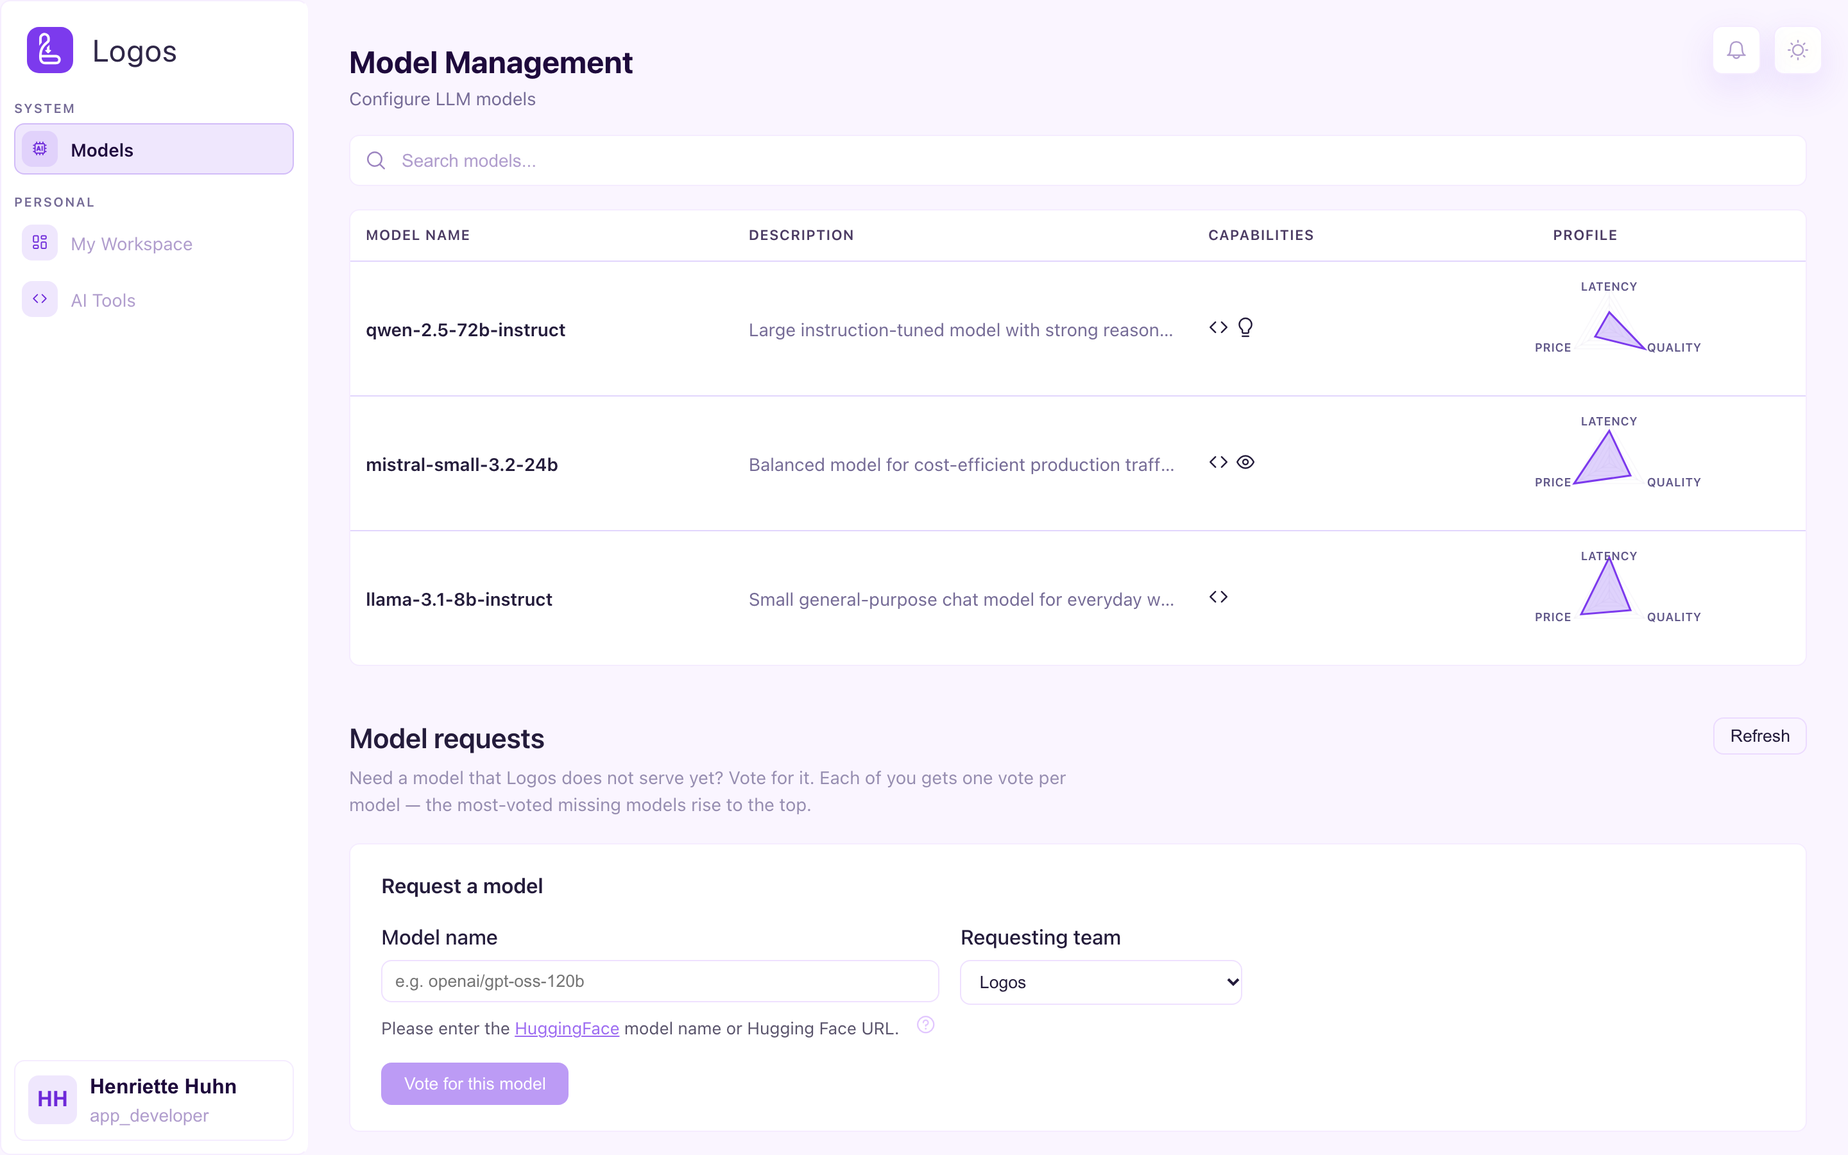
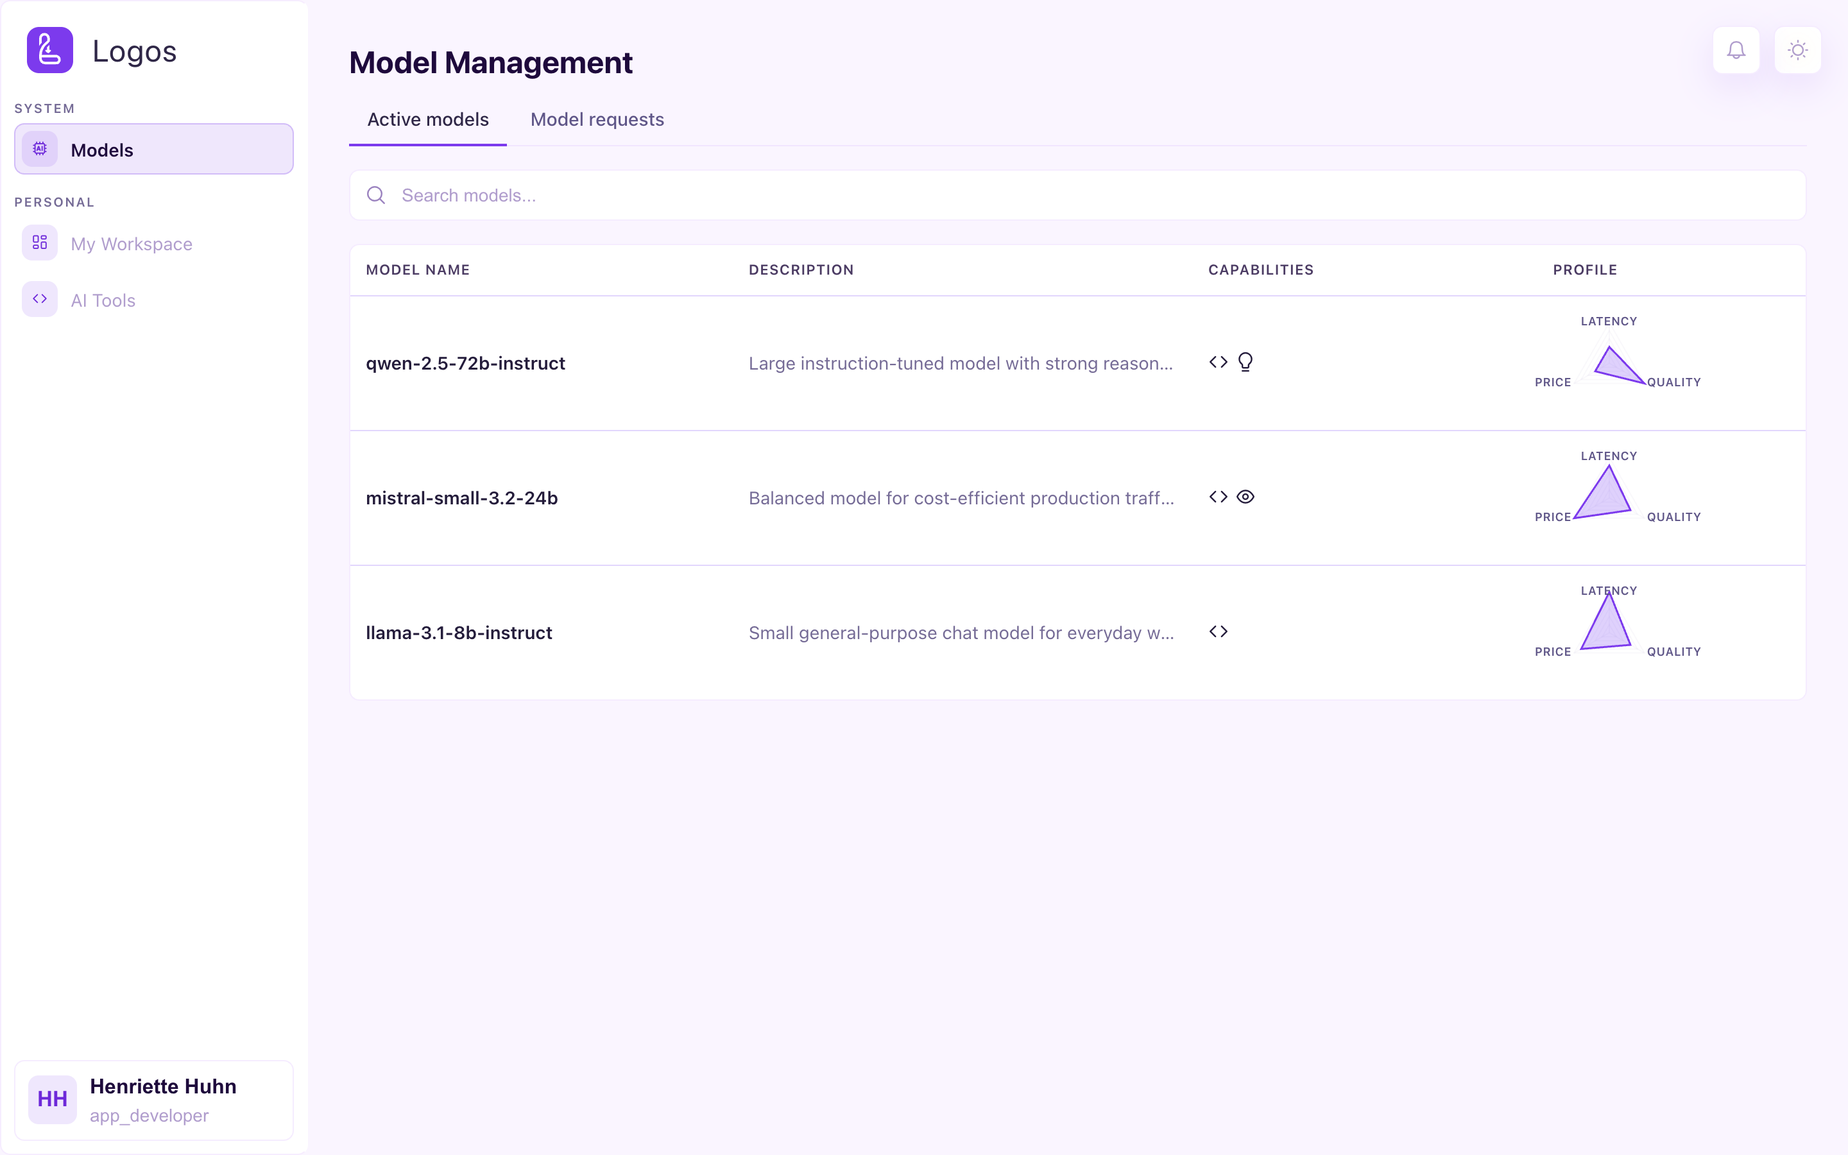
Keep model agreements on one revision and address model request review

diff --git a/logos-ui/src/app/shared/components/notification-bell/notification-bell.spec.ts b/logos-ui/src/app/shared/components/notification-bell/notification-bell.spec.ts
@@ -95,39 +95,33 @@ describe('NotificationBell', () => {
     payload,
   });
 
-  it('opens the model page on Hugging Face when a gated-model notification is clicked', async () => {
-    const open = vi.spyOn(window, 'open').mockReturnValue(null);
-    try {
-      service.list.mockResolvedValue({
-        content: [gated({ model: 'meta-llama/llama-3.1-8b' })],
-        total_elements: 1, total_pages: 1, number: 0, last: true,
-      });
-      await bell.toggle();
-      fixture.detectChanges();
-      fixture.nativeElement.querySelector('.item__title').click();
-      expect(open).toHaveBeenCalledWith('https://huggingface.co/meta-llama/llama-3.1-8b', '_blank', 'noopener,noreferrer');
-      expect(bell.items()[0].read).toBe(true);
-      expect(bell.open()).toBe(true);
-    } finally {
-      open.mockRestore();
-    }
+  it('links a gated-model notification to the model in a new tab', async () => {
+    service.list.mockResolvedValue({
+      content: [gated({ model: 'meta-llama/llama-3.1-8b' })],
+      total_elements: 1, total_pages: 1, number: 0, last: true,
+    });
+    await bell.toggle();
+    fixture.detectChanges();
+    const title: HTMLAnchorElement = fixture.nativeElement.querySelector('a.item__title');
+    expect(title.href).toBe('https://huggingface.co/meta-llama/llama-3.1-8b');
+    expect(title.target).toBe('_blank');
+    expect(title.relList.contains('noopener')).toBe(true);
+    title.addEventListener('click', (event) => event.preventDefault(), { once: true });
+    title.click();
+    expect(bell.items()[0].read).toBe(true);
+    expect(bell.open()).toBe(true);
   });
 
-  it('marks a gated-model notification read without opening a page for a malformed payload', async () => {
-    const open = vi.spyOn(window, 'open').mockReturnValue(null);
-    try {
-      service.list.mockResolvedValue({
-        content: [gated({ model: 'https://huggingface.co/evil/x' })],
-        total_elements: 1, total_pages: 1, number: 0, last: true,
-      });
-      await bell.toggle();
-      fixture.detectChanges();
-      fixture.nativeElement.querySelector('.item__title').click();
-      expect(open).not.toHaveBeenCalled();
-      expect(bell.items()[0].read).toBe(true);
-    } finally {
-      open.mockRestore();
-    }
+  it('keeps click-to-read for a notification without a valid destination', async () => {
+    service.list.mockResolvedValue({
+      content: [gated({ model: 'https://huggingface.co/evil/x' })],
+      total_elements: 1, total_pages: 1, number: 0, last: true,
+    });
+    await bell.toggle();
+    fixture.detectChanges();
+    expect(fixture.nativeElement.querySelector('a.item__title')).toBeNull();
+    fixture.nativeElement.querySelector('button.item__title').click();
+    expect(bell.items()[0].read).toBe(true);
   });
 
   for (const read of [false, true]) {

diff --git a/logos-ui/src/app/core/services/notification-target.spec.ts b/logos-ui/src/app/core/services/notification-target.spec.ts
@@ -1,4 +1,4 @@
-import { notificationBody, notificationModelUrl, notificationTarget } from './notification-target';
+import { notificationBody, notificationExternalUrl, notificationTarget } from './notification-target';
 import { AppNotification } from './notification.service';
 
 describe('Benchmark notification destinations', () => {
@@ -17,7 +17,7 @@ describe('Benchmark notification destinations', () => {
 describe('Gated model notification destinations', () => {
   const notification = (payload: unknown) => ({ type: 'gated_model_requested', payload } as AppNotification);
   it('points at the model page on Hugging Face', () => {
-    expect(notificationModelUrl(notification({ model: 'meta-llama/llama-3.1-8b' }))).toBe(
+    expect(notificationExternalUrl(notification({ model: 'meta-llama/llama-3.1-8b' }))).toBe(
       'https://huggingface.co/meta-llama/llama-3.1-8b',
     );
   });
@@ -27,10 +27,10 @@ describe('Gated model notification destinations', () => {
     { model: 'https://huggingface.co/x/y' }, { model: 'x@y/z' }, { model: 'x/y?redirect=1' },
     { model: 'x/y\nHost: evil.example' },
   ])('does not open a URL for a malformed model name: %j', payload => {
-    expect(notificationModelUrl(notification(payload))).toBeNull();
+    expect(notificationExternalUrl(notification(payload))).toBeNull();
   });
   it('ignores other notification types', () => {
-    expect(notificationModelUrl({ type: 'batch_job_finished', payload: { model: 'x/y' } } as AppNotification)).toBeNull();
+    expect(notificationExternalUrl({ type: 'batch_job_finished', payload: { model: 'x/y' } } as AppNotification)).toBeNull();
   });
 });
 

diff --git a/logos-ui/src/app/shared/components/notification-bell/notification-bell.ts b/logos-ui/src/app/shared/components/notification-bell/notification-bell.ts
@@ -17,7 +17,7 @@ import {
 } from '../../../core/services/notification.service';
 import { formatRelativeTime } from '../../utils/date';
 import { RouterLink } from '@angular/router';
-import { notificationBody, notificationModelUrl, notificationTarget } from '../../../core/services/notification-target';
+import { notificationBody, notificationExternalUrl, notificationTarget } from '../../../core/services/notification-target';
 
 const PAGE_SIZE = 15;
 /** Start loading the next page this close (px) to the end of the list. */
@@ -62,6 +62,7 @@ export class NotificationBell implements OnInit, OnDestroy {
   readonly meta = notificationMeta;
   readonly age = formatRelativeTime;
   readonly target = notificationTarget;
+  readonly externalUrl = notificationExternalUrl;
   readonly body = notificationBody;
 
   constructor() {
@@ -151,18 +152,6 @@ export class NotificationBell implements OnInit, OnDestroy {
   followBenchmark(item: AppNotification): void {
     void this.markRead(item);
     this.open.set(false);
-  }
-
-  /**
-   * A title click reads the item, and for a gated-model notification takes
-   * the caller straight to the model's Hugging Face page — the same target
-   * as the Model requests page' license dialog. The panel stays open: the
-   * tab opens next to it, the page underneath is unchanged.
-   */
-  clickTitle(item: AppNotification): void {
-    void this.markRead(item);
-    const url = notificationModelUrl(item);
-    if (url) window.open(url, '_blank', 'noopener,noreferrer');
   }
 
   async markRead(item: AppNotification): Promise<void> {

diff --git a/logos-ui/src/app/shared/components/notification-bell/notification-bell.html b/logos-ui/src/app/shared/components/notification-bell/notification-bell.html
@@ -57,8 +57,13 @@
                   <i [class]="'pi ' + meta(item.type).icon"></i>
                 </span>
                 <div class="item__text">
-                  <button type="button" class="item__title" (click)="clickTitle(item)"
-                    [attr.aria-label]="(item.read ? '' : 'Unread: ') + item.title">{{ item.title }}</button>
+                  @if (externalUrl(item); as url) {
+                    <a class="item__title" [href]="url" target="_blank" rel="noopener noreferrer" (click)="markRead(item)"
+                      [attr.aria-label]="(item.read ? '' : 'Unread: ') + item.title">{{ item.title }}</a>
+                  } @else {
+                    <button type="button" class="item__title" (click)="markRead(item)"
+                      [attr.aria-label]="(item.read ? '' : 'Unread: ') + item.title">{{ item.title }}</button>
+                  }
                   @if (body(item); as text) {
                     <p class="item__body">{{ text }}</p>
                   }

diff --git a/logos-ui/src/app/core/services/notification-target.ts b/logos-ui/src/app/core/services/notification-target.ts
@@ -28,7 +28,7 @@ function modelName(value: unknown): string | null {
  * same target as the Model requests page' license dialog. Built from the
  * validated payload value only, never from a payload-supplied URL.
  */
-export function notificationModelUrl(item: AppNotification): string | null {
+export function notificationExternalUrl(item: AppNotification): string | null {
   if (item.type !== 'gated_model_requested' || !item.payload || typeof item.payload !== 'object') return null;
   const model = modelName((item.payload as Record<string, unknown>)['model']);
   return model === null ? null : `https://huggingface.co/${model}`;

diff --git a/logos-orchestrator/src/logos/hf_license.py b/logos-orchestrator/src/logos/hf_license.py
@@ -124,53 +124,24 @@ async def _fetch(
                 elif not isinstance(license_id, str):
                     license_id = None
 
-                # Both files come from the repository's tree, scanned in the
-                # same pass. The license pins the default branch, so once it
-                # is found the other ref need not be asked — the policy, if
-                # any, lives on that branch too.
-                license_file: str | None = None
-                license_ref: str | None = None
-                policy_file: str | None = None
-                policy_ref: str | None = None
+                license_file = license_text = policy_file = use_policy_text = None
                 for ref in _DEFAULT_REFS:
                     tree = await get(f"{constants.ENDPOINT}/api/models/{hf_repo_id}/tree/{ref}")
                     if tree.status_code == 404:
-                        continue  # not this repository's default branch
+                        continue
                     hf_raise_for_status(tree)
-                    entries = tree.json()
-                    if license_file is None:
-                        candidates = [
-                            entry["path"]
-                            for entry in entries
-                            if entry.get("type") == "file"
-                            and _LICENSE_FILE_NAME.match(entry["path"].rsplit("/", 1)[-1])
-                        ]
-                        if candidates:
-                            license_file = min(candidates, key=_license_file_rank)
-                            license_ref = ref
-                    if policy_file is None:
-                        candidates = [
-                            entry["path"]
-                            for entry in entries
-                            if entry.get("type") == "file"
-                            and _USE_POLICY_FILE_NAME.match(entry["path"].rsplit("/", 1)[-1])
-                        ]
-                        if candidates:
-                            policy_file = min(candidates)
-                            policy_ref = ref
-                    if license_file is not None:
-                        break
-
-                license_text: str | None = None
-                if license_file is not None and license_ref is not None:
-                    license_text = await read_repo_file(
-                        f"{constants.ENDPOINT}/{hf_repo_id}/resolve/{license_ref}/{license_file}", "License file"
-                    )
-                use_policy_text: str | None = None
-                if policy_file is not None and policy_ref is not None:
-                    use_policy_text = await read_repo_file(
-                        f"{constants.ENDPOINT}/{hf_repo_id}/resolve/{policy_ref}/{policy_file}", "Use policy file"
-                    )
+                    paths = [entry["path"] for entry in tree.json() if entry.get("type") == "file"]
+                    licenses = [path for path in paths if _LICENSE_FILE_NAME.match(path.rsplit("/", 1)[-1])]
+                    policies = [path for path in paths if _USE_POLICY_FILE_NAME.match(path.rsplit("/", 1)[-1])]
+                    base_url = f"{constants.ENDPOINT}/{hf_repo_id}/resolve/{ref}"
+                    if licenses:
+                        license_file = min(licenses, key=_license_file_rank)
+                        license_text = await read_repo_file(f"{base_url}/{license_file}", "License file")
+                    if policies:
+                        policy_file = min(policies)
+                        use_policy_text = await read_repo_file(f"{base_url}/{policy_file}", "Use policy file")
+                    # A successful tree selects the revision for both documents, even when either is absent.
+                    break
         return license_id, license_file, license_text, policy_file, use_policy_text, None
     except HFValidationError:
         return (None, None, None, None, None, "Not a valid Hugging Face repository id.")

diff --git a/logos-webservice/src/main/java/de/tum/cit/aet/logos/logoswebservice/common/RestTemplateConfig.java b/logos-webservice/src/main/java/de/tum/cit/aet/logos/logoswebservice/common/RestTemplateConfig.java
@@ -18,9 +18,13 @@ public class RestTemplateConfig {
     @Primary
     @Bean
     public RestTemplate restTemplate() {
+        return withReadTimeout(5_000);
+    }
+
+    private static RestTemplate withReadTimeout(int readTimeoutMs) {
         SimpleClientHttpRequestFactory factory = new SimpleClientHttpRequestFactory();
         factory.setConnectTimeout(3_000);
-        factory.setReadTimeout(5_000);
+        factory.setReadTimeout(readTimeoutMs);
         return new RestTemplate(factory);
     }
 
@@ -34,10 +38,7 @@ public class RestTemplateConfig {
      */
     @Bean
     public RestTemplate workerAdminRestTemplate() {
-        SimpleClientHttpRequestFactory factory = new SimpleClientHttpRequestFactory();
-        factory.setConnectTimeout(3_000);
-        factory.setReadTimeout(130_000);
-        return new RestTemplate(factory);
+        return withReadTimeout(130_000);
     }
 
     /**
@@ -49,10 +50,7 @@ public class RestTemplateConfig {
      */
     @Bean
     public RestTemplate hfReachabilityRestTemplate() {
-        SimpleClientHttpRequestFactory factory = new SimpleClientHttpRequestFactory();
-        factory.setConnectTimeout(3_000);
-        factory.setReadTimeout(20_000);
-        return new RestTemplate(factory);
+        return withReadTimeout(20_000);
     }
 
     /**
@@ -65,10 +63,7 @@ public class RestTemplateConfig {
      */
     @Bean
     public RestTemplate hfLicenseRestTemplate() {
-        SimpleClientHttpRequestFactory factory = new SimpleClientHttpRequestFactory();
-        factory.setConnectTimeout(3_000);
-        factory.setReadTimeout(65_000);
-        return new RestTemplate(factory);
+        return withReadTimeout(65_000);
     }
 
     /**
@@ -78,10 +73,7 @@ public class RestTemplateConfig {
      */
     @Bean
     public RestTemplate calibrationLogRestTemplate() {
-        SimpleClientHttpRequestFactory factory = new SimpleClientHttpRequestFactory();
-        factory.setConnectTimeout(3_000);
-        factory.setReadTimeout(30_000);
-        return new RestTemplate(factory);
+        return withReadTimeout(30_000);
     }
 
     /**

diff --git a/logos-webservice/src/test/java/de/tum/cit/aet/logos/logoswebservice/configuration/ModelRequestControllerTest.java b/logos-webservice/src/test/java/de/tum/cit/aet/logos/logoswebservice/configuration/ModelRequestControllerTest.java
@@ -50,7 +50,11 @@ import de.tum.cit.aet.logos.logoswebservice.orchestrator.OrchestratorHfReachabil
 })
 @Sql(scripts = {"/sql/seed-identity.sql", "/sql/seed-configuration.sql"},
      executionPhase = Sql.ExecutionPhase.BEFORE_TEST_METHOD)
-@Sql(scripts = {"/sql/cleanup-requested-models.sql", "/sql/cleanup-configuration.sql", "/sql/cleanup-identity.sql"},
+@Sql(statements = {
+    "DELETE FROM notifications WHERE type = 'gated_model_requested' AND payload->>'model' IN (SELECT name FROM requested_models)",
+    "DELETE FROM requested_models"
+}, executionPhase = Sql.ExecutionPhase.AFTER_TEST_METHOD)
+@Sql(scripts = {"/sql/cleanup-configuration.sql", "/sql/cleanup-identity.sql"},
      executionPhase = Sql.ExecutionPhase.AFTER_TEST_METHOD)
 class ModelRequestControllerTest {
 
@@ -214,7 +218,9 @@ class ModelRequestControllerTest {
            .andExpect(status().isOk())
            .andExpect(jsonPath("$.is_gated").value(false));
 
-        assertThat(jdbc.queryForObject("SELECT COUNT(*) FROM notifications", Integer.class)).isZero();
+        assertThat(jdbc.queryForObject(
+            "SELECT COUNT(*) FROM notifications WHERE type = 'gated_model_requested' AND payload->>'model' = 'openai/gpt-5'",
+            Integer.class)).isZero();
     }
 
     @Test

diff --git a/logos-orchestrator/tests/unit/test_hf_license.py b/logos-orchestrator/tests/unit/test_hf_license.py
@@ -265,7 +265,15 @@ async def test_license_id_wins_when_several_files_match(hub):
 
 
 async def test_no_license_file_keeps_the_card_license(hub):
-    _hub_with(hub, {"cardData": {"license": "mit"}}, {"main": [{"type": "file", "path": "model.safetensors"}]}, {})
+    _hub_with(
+        hub,
+        {"cardData": {"license": "mit"}},
+        {
+            "main": [{"type": "file", "path": "USE_POLICY.md"}],
+            "master": [{"type": "file", "path": "LICENSE"}],
+        },
+        {"USE_POLICY.md": "Current policy", "LICENSE": "Obsolete GPL agreement"},
+    )
 
     result = await hf_license.fetch_hf_license("org/model")
 
@@ -273,6 +281,8 @@ async def test_no_license_file_keeps_the_card_license(hub):
     assert result.license_id == "mit"
     assert result.license_file is None
     assert result.license_text is None
+    assert result.use_policy_text == "Current policy"
+    assert all(not request.url.path.endswith("/tree/master") for request in hub.requests)
 
 
 async def test_no_license_information_is_no_error(hub):

diff --git a/docs/roles/logos-admin.md b/docs/roles/logos-admin.md
@@ -158,7 +158,7 @@ first lane has started.
 
 ## Models
 
-This page shows the model catalogue of the deployment. It shows tags, aliases,
+The **Active models** tab shows the model catalogue of the deployment. It shows tags, aliases,
 capabilities and scheduling weights for each model. It also shows the Likert
 **profile ratings** (latency / quality / price) as a spider chart. Click a
 model to open its **Model Details** view. This view shows the request history,
@@ -174,6 +174,27 @@ Point to a status for the worker and date. Select it to open **Performance**.
 The preview depends on current worker availability. It does not reserve a worker.
 
 ![Models page](/img/roles/logos-admin-models.png)
+
+### Model requests
+
+Select **Model requests** to see which models users request and how many votes each model has.
+To vote for a model, select your team and enter its Hugging Face repository name.
+Select **Vote for this model**.
+
+![Model requests, vote counts and license agreement status](/img/roles/model-requests.png)
+
+Select the icon under **License agreement status** to open the agreement.
+Read the license and the use policy if the repository provides one.
+If you accept the terms, select the checkbox and then **Save**.
+
+![License agreement and use policy for a requested model](/img/roles/model-request-license.png)
+
+A warning icon next to the model name identifies a gated repository.
+Select it to open **Gated model**. Select **Go to HuggingFace** to request access from the repository owner.
+
+![Gated model access dialog](/img/roles/model-request-gated.png)
+
+### Model details
 
 Open **Model Details → Performance → Request measurements** to inspect request times.
 This view uses timing metadata. It does not use prompt or response content.

diff --git a/docs/AGENTS.md b/docs/AGENTS.md
@@ -315,6 +315,9 @@ flows use a **concept** name (no role prefix); role-only list pages keep the
 | `logos-admin-statistics-worker-lock.png` | `tobias.wasner` | `/statistics` — **Local Providers**, a worker locked with two lanes (e2e stack; capture the lane panel) | `roles/logos-admin.md#worker-locks` |
 | `logos-admin-statistics-requesters.png` | `tobias.wasner` | `/statistics?tab=requests` — **Requesters** list open | `roles/logos-admin.md` |
 | `logos-admin-models.png` | `tobias.wasner` | `/models` | `roles/logos-admin.md` |
+| `model-requests.png` | `tobias.wasner` | **Model requests** tab with a team vote | `roles/logos-admin.md#model-requests` |
+| `model-request-license.png` | `tobias.wasner` | **License agreement** with a use policy | `roles/logos-admin.md#model-requests` |
+| `model-request-gated.png` | `tobias.wasner` | **Gated model** dialog | `roles/logos-admin.md#model-requests` |
 | `logos-admin-nightly-enable.png` | `tobias.wasner` | `/models/<id>/details?tab=performance` — nightly schedule ready to enable | `roles/logos-admin.md#nightly-benchmarks` |
 | `logos-admin-nightly-benchmarks.png` | `tobias.wasner` | `/models/<id>/details?tab=performance` — **Run a benchmark** and compact nightly status | `roles/logos-admin.md#nightly-benchmarks` |
 | `logos-admin-nightly-automatic-source.png` | `tobias.wasner` | `/models/<id>/details?tab=performance` — automatic recent-user source policy | `roles/logos-admin.md#nightly-benchmarks` |

diff --git a/docs/roles/app-developer.md b/docs/roles/app-developer.md
@@ -70,6 +70,9 @@ shows what the model supports (function calling, vision, reasoning) and where
 Logos serves the model. You can search the list and open the details of a
 model.
 
+Use **Active models** to browse the catalogue. Use **Model requests** to request a model for your team.
+Enter the Hugging Face repository name, select your team, and select **Vote for this model**.
+
 ![Models page](/img/roles/app-developer-models.png)
 
 ## My Workspace
